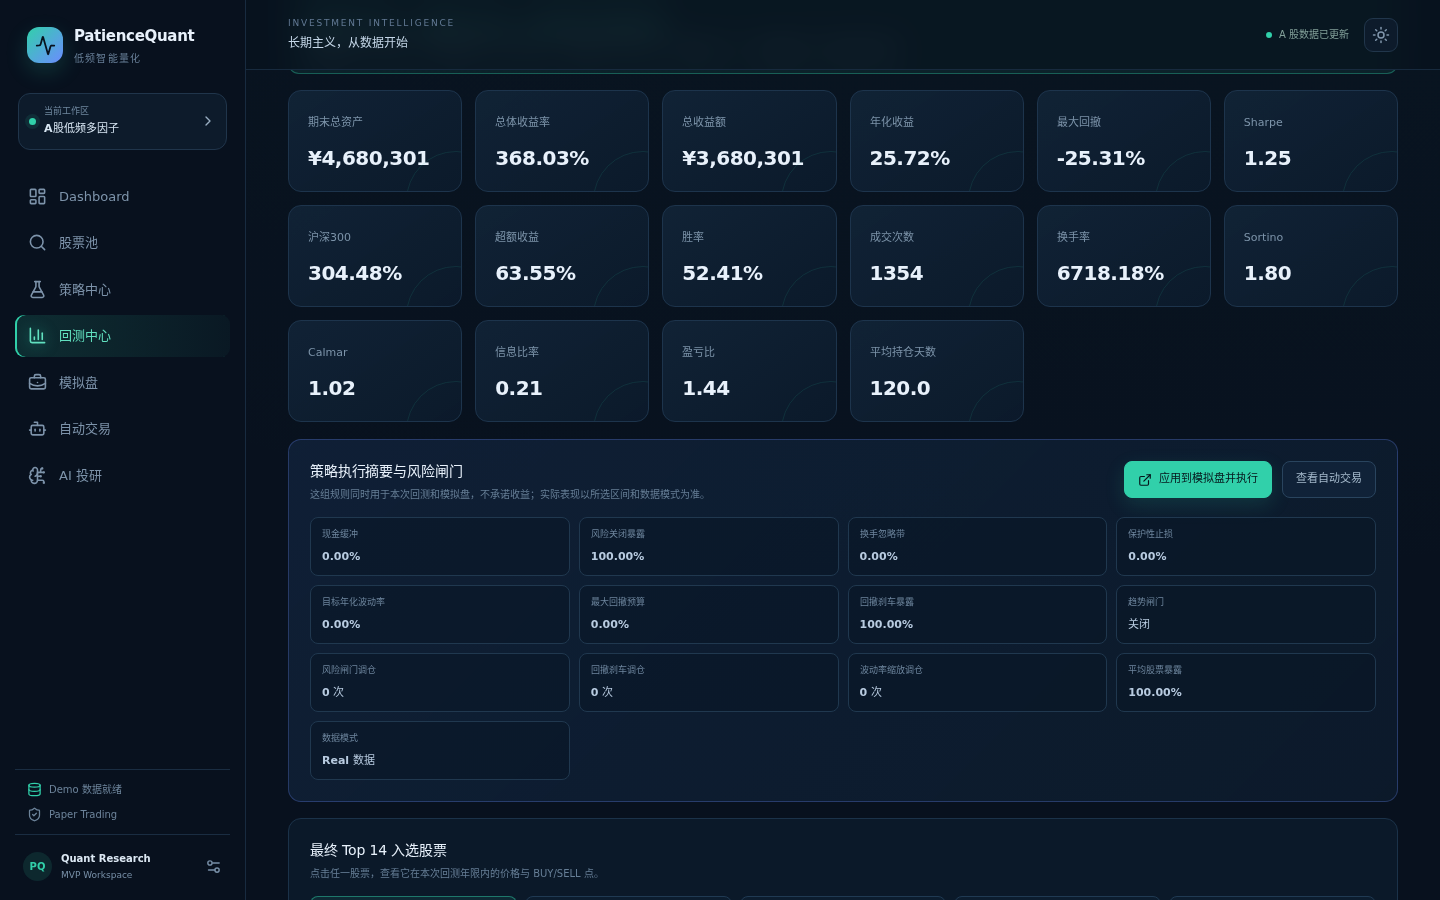
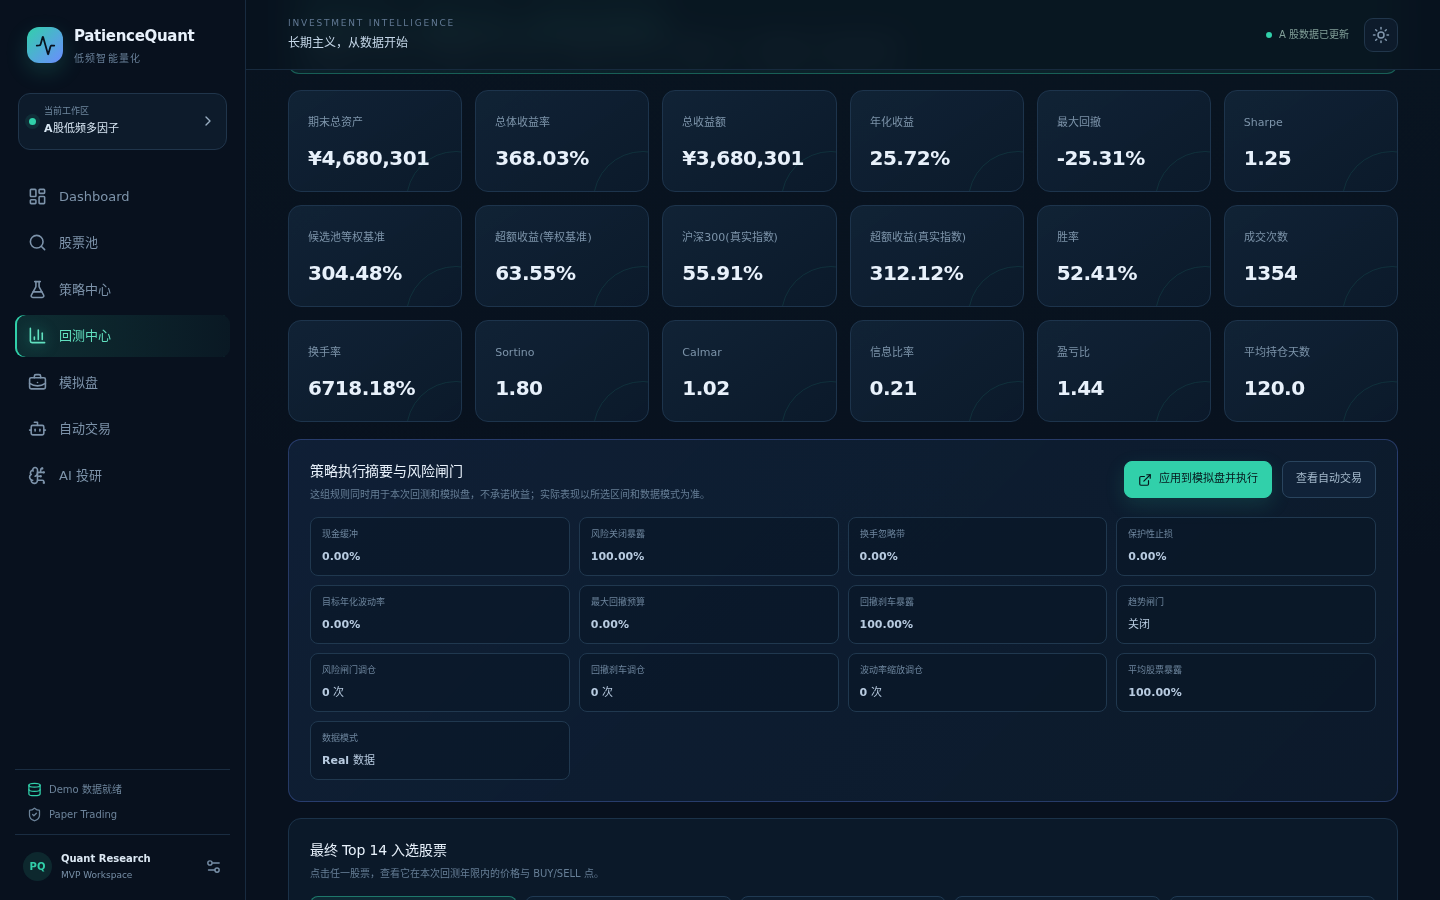
fix: 补充真实沪深300指数对照，修正基准命名误导
之前"沪深300"这个标签指的其实是候选池自己的等权买入持有对照
(APhaseDataService.benchmark())，从来没有查过真实指数点位——容易让人
误以为策略真的在和沪深300指数比。新增app/quant_v3/real_benchmark.py
用baostock真实查sh.000300指数，作为独立于等权基准之外的第二条对照，
两条基准回答不同问题(选股增量 vs 整体是否跑赢大盘)，都展示出来。

真实结果：vs候选池等权基准6/7年跑赢(2019年唯一告负)；vs真实沪深300
指数7/7年全部跑赢，7年复合收益+425.4% vs 真实指数+58.9%。等权基准
下企更高的相对表现主要来自"候选池本身选股跑赢大盘"这个独立因素，两条
基准的差异因此如实拆开说明。

前端标签同步更正："沪深300"→"候选池等权基准"(quant_v3结果下)，新增
"沪深300(真实指数)"+"超额收益(真实指数)"两张卡片。回测中心截图重新
生成。canonical脚本(run_broad_regression_per_year_backtest.py)同步
输出真实指数对照。

diff --git a/frontend/src/pages/BacktestCenter.tsx b/frontend/src/pages/BacktestCenter.tsx
@@ -656,8 +656,17 @@ export function BacktestCenter() {
             <Metric label="年化收益" value={formatPercent(result.metrics.annual_return)} />
             <Metric label="最大回撤" value={formatPercent(result.metrics.max_drawdown)} />
             <Metric label="Sharpe" value={Number(result.metrics.sharpe || 0).toFixed(2)} />
-            <Metric label="沪深300" value={formatPercent(result.metrics.benchmark_return)} />
-            <Metric label="超额收益" value={formatPercent(result.metrics.excess_return)} />
+            <Metric
+              label={result.metrics.csi300_index_return != null ? '候选池等权基准' : '沪深300'}
+              value={formatPercent(result.metrics.benchmark_return)}
+            />
+            <Metric label="超额收益(等权基准)" value={formatPercent(result.metrics.excess_return)} />
+            {result.metrics.csi300_index_return != null && (
+              <>
+                <Metric label="沪深300(真实指数)" value={formatPercent(result.metrics.csi300_index_return)} />
+                <Metric label="超额收益(真实指数)" value={formatPercent(result.metrics.excess_return_vs_csi300_index)} />
+              </>
+            )}
             <Metric label="胜率" value={formatPercent(result.metrics.win_rate)} />
             <Metric label="成交次数" value={Number(result.metrics.trade_count || 0).toFixed(0)} />
             <Metric label="换手率" value={formatPercent(result.metrics.turnover)} />

diff --git a/backend/scripts/run_broad_regression_per_year_backtest.py b/backend/scripts/run_broad_regression_per_year_backtest.py
@@ -23,6 +23,7 @@ from app.quant_v3.broad_universe import BROAD_GROUP_BUDGETS, BROAD_STOCKS
 from app.quant_v3.ensemble_regression_signal import EnsembleRegressionWalkForwardSignalSource
 from app.quant_v3.momentum_signal import MomentumSignalSource
 from app.quant_v3.qualification_signal import QualificationSignalSource
+from app.quant_v3.real_benchmark import csi300_return
 from app.strategies.base import StrategyConfig
 from app.strategies.regression_rotation_strategy import RegressionRotationStrategy
 
@@ -102,12 +103,18 @@ def run_one_year(history: pd.DataFrame, year: int) -> dict:
         config, PURE_STRATEGY_CONFIG, symbols=list(history["symbol"].unique()), strategy=strategy,
     )
     metrics = result.metrics
+    # `benchmark_return`是候选池自己的等权买入持有对照(隔离"选股/择时"本身
+    # 的增量)，不是真实沪深300指数点位——额外查一次真实指数，回答"整体
+    # 有没有跑赢大盘"这个不同的问题，见 app/quant_v3/real_benchmark.py。
+    real_csi300 = csi300_return(date(year, 1, 1), date(year, 12, 31))
     return {
         "year": year,
         "trades": len(result.trades),
         "strategy_return": metrics.get("overall_return"),
         "benchmark_return": metrics.get("benchmark_return"),
         "excess_return": metrics.get("excess_return"),
+        "csi300_index_return": real_csi300,
+        "excess_return_vs_csi300": (metrics.get("overall_return") - real_csi300) if real_csi300 is not None else None,
         "max_drawdown": metrics.get("max_drawdown"),
         "sharpe": metrics.get("sharpe"),
     }
@@ -122,10 +129,14 @@ def main() -> None:
     print(f"\n{beat}/{len(YEARS)} 个年份策略跑赢了基准")
     strat_compound = 1.0
     bench_compound = 1.0
+    csi300_compound = 1.0
     for row in rows:
         strat_compound *= 1 + row["strategy_return"]
         bench_compound *= 1 + row["benchmark_return"]
-    print(f"7年复合收益：策略 {strat_compound - 1:.4f}，基准 {bench_compound - 1:.4f}")
+        csi300_compound *= 1 + (row["csi300_index_return"] or 0)
+    print(f"7年复合收益：策略 {strat_compound - 1:.4f}，候选池等权基准 {bench_compound - 1:.4f}，真实沪深300指数 {csi300_compound - 1:.4f}")
+    beat_csi300 = sum(1 for row in rows if row["csi300_index_return"] is not None and row["strategy_return"] > row["csi300_index_return"])
+    print(f"{beat_csi300}/{len(YEARS)} 个年份策略跑赢了真实沪深300指数")
 
 
 if __name__ == "__main__":

diff --git a/backend/app/quant_v3/real_benchmark.py b/backend/app/quant_v3/real_benchmark.py
@@ -1,0 +1,44 @@
+"""真实沪深300指数收益对照——`APhaseDataService.benchmark()`那条"沪深300"
+线其实是候选池自己的等权买入持有曲线（用来隔离出"策略选股/择时"的独立
+增量，见 docs/adr/0037 附近的说明），从来不是真的查过官方指数点位。这个
+命名容易让人以为策略真的在对比沪深300指数，这里补一个真正查真实指数
+（baostock `sh.000300`）算出来的收益率，作为额外的、独立的对照，不是
+替换那条等权线——两者回答的是不同问题：等权线回答"选股有没有增量"，
+这条真实指数线回答"整体是不是真的跑赢了大盘"。
+
+`data/real_csi300_index.parquet` 是 `scripts/fetch_real_universe_fundamentals.py`
+调查真实数据覆盖范围问题时顺带确认可行、又单独重新抓的一份干净数据——
+指数本身没有"股票代码对应错公司"这类问题，跟那次批量抓取里发现的
+数据质量问题无关。
+"""
+from __future__ import annotations
+
+from datetime import date
+from functools import lru_cache
+from pathlib import Path
+from typing import Optional
+
+import pandas as pd
+
+_INDEX_FILE = Path(__file__).resolve().parent.parent.parent / "data" / "real_csi300_index.parquet"
+
+
+@lru_cache(maxsize=1)
+def _load_index() -> pd.DataFrame:
+    frame = pd.read_parquet(_INDEX_FILE)
+    frame["date"] = pd.to_datetime(frame["date"]).dt.date
+    return frame.sort_values("date")
+
+
+def csi300_return(start: date, end: date) -> Optional[float]:
+    """真实沪深300指数在[start, end]区间的收益率。
+
+    取区间内实际有交易记录的第一个和最后一个收盘点位——不假设 start/end
+    本身是交易日。区间内没有任何数据（比如整段都在指数历史范围之外）
+    时返回 None，调用方需要能接受"这次没有真实对照"，不能编一个数字。
+    """
+    frame = _load_index()
+    window = frame[(frame.date >= start) & (frame.date <= end)]
+    if len(window) < 2:
+        return None
+    return float(window.close.iloc[-1] / window.close.iloc[0] - 1)

diff --git a/backend/app/api/routes.py b/backend/app/api/routes.py
@@ -24,6 +24,7 @@ from app.data.service import MarketDataService
 from app.quant_v3.a_phase_data_service import APhaseDataService
 from app.quant_v3.broad_universe import BROAD_STOCKS
 from app.quant_v3.final_strategy import build_final_strategy, final_strategy_history, validate_backtest_date_range
+from app.quant_v3.real_benchmark import csi300_return
 from app.quant_v3.research_notes import quant_v3_research_universe
 from app.db.models import AIExplanation, BacktestEquity, BacktestMetric, BacktestRun, DailyAccount, Order, Portfolio, Position, ResearchAnnotation, ResearchGroup, Stock, Strategy, StrategyFactor, Trade, Watchlist
 from app.db.session import get_db
@@ -528,6 +529,15 @@ def run_backtest(payload: BacktestRequest, db: Session = Depends(get_db)) -> Dic
                 allow_network=False,
             )
             run.data_mode = result.data_mode
+            # `result.metrics["benchmark_return"]` 是候选池自己的等权买入
+            # 持有对照（隔离"选股/择时"本身的增量），不是真实沪深300指数
+            # 点位——额外附上一条真实指数的收益率，回答"整体有没有跑赢
+            # 大盘"这个不同的问题。指数历史范围之外/查不到时诚实返回
+            # None，不编数字。
+            real_csi300 = csi300_return(payload.start_date, payload.end_date)
+            if real_csi300 is not None:
+                result.metrics["csi300_index_return"] = real_csi300
+                result.metrics["excess_return_vs_csi300_index"] = result.metrics["total_return"] - real_csi300
         else:
             market_data = MarketDataService(db)
             run.data_mode = market_data.mode

diff --git a/backend/tests/quant_v3/test_real_benchmark.py b/backend/tests/quant_v3/test_real_benchmark.py
@@ -1,0 +1,22 @@
+from datetime import date
+
+from app.quant_v3.real_benchmark import csi300_return
+
+
+def test_csi300_return_over_a_known_real_window():
+    # 2019年沪深300真实是普涨大年，全年应该是显著正收益(公开可查约+36%)。
+    value = csi300_return(date(2019, 1, 1), date(2019, 12, 31))
+    assert value is not None
+    assert 0.2 < value < 0.5
+
+
+def test_csi300_return_is_none_outside_available_history():
+    value = csi300_return(date(1990, 1, 1), date(1990, 12, 31))
+    assert value is None
+
+
+def test_csi300_return_handles_non_trading_day_bounds():
+    # 起止日期不要求正好是交易日——用区间内实际存在的第一/最后一条记录。
+    a_weekend = date(2024, 1, 1)  # 元旦，非交易日
+    value = csi300_return(a_weekend, date(2024, 1, 31))
+    assert value is not None

diff --git a/README.md b/README.md
@@ -81,22 +81,25 @@ DATA_MODE=real docker compose up --build
 
 ### 结果（真实回测，2019-01-01 ~ 2025-12-31，逐年独立回测）
 
-| 年份 | 成交笔数 | 策略收益 | 沪深300对照基准 | 超额收益 | 最大回撤 | Sharpe |
-|---|---|---|---|---|---|---|
-| 2019 | 164 | +48.24% | +63.51% | **-15.26%** | -10.74% | 2.20 |
-| 2020 | 189 | +88.68% | +64.02% | +24.66% | -19.07% | 2.89 |
-| 2021 | 163 | +1.42% | -1.93% | +3.36% | -15.03% | 0.17 |
-| 2022 | 172 | -6.69% | -12.59% | +5.90% | -18.19% | -0.26 |
-| 2023 | 173 | +12.72% | +8.45% | +4.27% | -12.02% | 0.86 |
-| 2024 | 169 | +28.90% | +23.33% | +5.57% | -11.51% | 1.48 |
-| 2025 | 147 | +36.60% | +31.37% | +5.23% | -9.02% | 2.20 |
+同时对照两条不同性质的基准——**候选池等权基准**（30支候选池等资金买入持有，隔离出"选股/择时"本身相对于"什么都不做"的增量）和**真实沪深300指数**（baostock查的真实指数点位`sh.000300`，回答"整体有没有跑赢大盘"）：
 
-**6/7 个年份跑赢基准；7 年复合收益：策略 +425.4%，基准（等资金买入持有，非官方指数）+303.9%。**
+| 年份 | 成交笔数 | 策略收益 | 候选池等权基准 | 超额(等权基准) | 真实沪深300指数 | 超额(真实指数) | 最大回撤 | Sharpe |
+|---|---|---|---|---|---|---|---|---|
+| 2019 | 164 | +48.24% | +63.51% | -15.26% | +37.95% | +10.29% | -10.74% | 2.20 |
+| 2020 | 189 | +88.68% | +64.02% | +24.66% | +25.51% | +63.17% | -19.07% | 2.89 |
+| 2021 | 163 | +1.42% | -1.93% | +3.36% | -6.21% | +7.64% | -15.03% | 0.17 |
+| 2022 | 172 | -6.69% | -12.59% | +5.90% | -21.27% | +14.59% | -18.19% | -0.26 |
+| 2023 | 173 | +12.72% | +8.45% | +4.27% | -11.75% | +24.46% | -12.02% | 0.86 |
+| 2024 | 169 | +28.90% | +23.33% | +5.57% | +16.20% | +12.70% | -11.51% | 1.48 |
+| 2025 | 147 | +36.60% | +31.37% | +5.23% | +21.19% | +15.41% | -9.02% | 2.20 |
+
+**7 年复合收益：策略 +425.4%，候选池等权基准 +303.9%，真实沪深300指数 +58.9%。**
+**vs 候选池等权基准：6/7 个年份跑赢。vs 真实沪深300指数：7/7 个年份跑赢。**
 
 如实说明这个结果的边界，而不是只挑好看的一面讲：
 
-- **2019 年是唯一跑输的一年，而且差距不小**（-15.26 个百分点）。诊断过多种假设（拉长动量回看期、粘性持仓、杠杆、多时间尺度融合、基本面特征、市场状态切换……详见开发过程记录），指向的是一个结构性事实：2019 年是近乎普涨的贝塔行情，而这套策略更擅长捕捉个股层面的阿尔法——这不是一个已解决的问题，是诚实报告的已知局限。
-- 基准是"候选池内等资金买入持有"的自建对照，不是官方沪深300指数点位——用于验证选股/择时相对于"什么都不做"的增量，不能直接等同于"跑赢沪深300指数"。
+- **两条基准回答的是不同问题，都要看，不能只挑一条**：候选池等权基准剔除了"选对了这30支股票"本身带来的优势，只衡量模型在池子内主动选股/择时的增量——这条基准下 2019 年是唯一的负超额（-15.26 个百分点），说明模型在那一年的相对排序判断确实不如"全部等权拿着不动"；真实沪深300指数衡量的是"整体投入这套策略，是不是比拿着大盘不动更好"——这30支候选池本身长期显著跑赢沪深300指数（一个独立于模型的、"选股票池"层面的优势），这也是为什么两条基准算出来的7年复合收益差这么多（+303.9% vs +58.9%）。
+- 诊断过多种假设试图解决"等权基准下2019年跑输"这个问题（拉长动量回看期、粘性持仓、杠杆、多时间尺度融合、基本面特征、市场状态切换……详见开发过程记录），指向的是一个结构性事实：2019 年是近乎普涨的贝塔行情，模型的相对排序在普涨市场里区分度较弱——这不是一个已解决的问题，是诚实报告的已知局限。
 - 这是历史区间的回测结果，7 个自然年、30 支股票的样本量，不构成对未来收益的任何保证；模拟盘（Paper Trading）只做本地撮合，不接入真实券商。
 - 开发过程中两次被"结果好得不太合理"的直觉倒查出真实系统 bug（基准计算的价格量级偏差、LightGBM 集成模型未开子采样导致 5 个"不同随机种子"训出完全相同的树），修复后的数字比修复前更保守——这两个 bug 修复前的版本曾经短暂报告过更高但错误的收益数字，均已在过程记录里更正。
 
